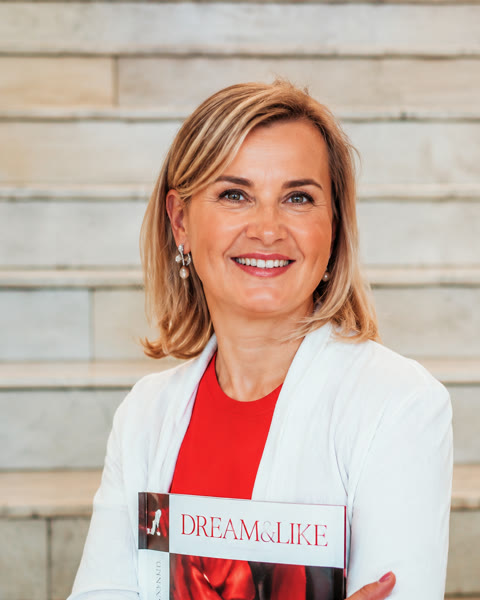
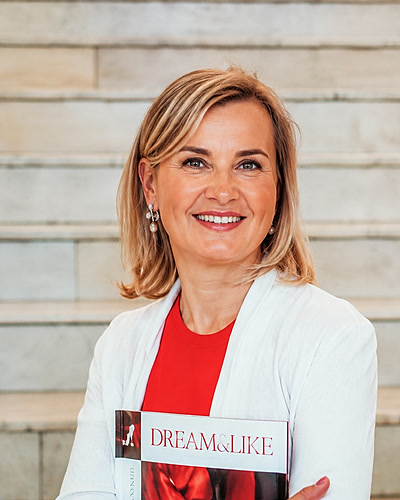
Чёткие компактные фото сбоку карточек кейсов вместо размытых баннеров

diff --git a/index.html b/index.html
@@ -177,13 +177,13 @@ nav{position:fixed;top:0;left:0;right:0;z-index:1000;padding:18px 32px;display:f
 .cases{padding:130px 0;background:var(--black-2);color:#fff}
 .cases-head{text-align:center;max-width:640px;margin:0 auto}
 .cases-head h2{font-size:clamp(28px,3.6vw,42px);color:#fff;margin-top:16px}
-.case-grid{display:grid;grid-template-columns:1fr 1fr;gap:24px;margin-top:56px}
-.case-card{background:var(--black-3);border:1px solid var(--border-w);border-radius:6px;overflow:hidden}
-.case-photo{width:100%;aspect-ratio:4/5;overflow:hidden;background:var(--black)}
+.case-grid{display:grid;grid-template-columns:1fr 1fr;gap:20px;margin-top:56px}
+.case-card{background:var(--black-3);border:1px solid var(--border-w);border-radius:6px;overflow:hidden;display:flex;align-items:stretch}
+.case-photo{width:132px;flex-shrink:0;aspect-ratio:4/5;overflow:hidden;background:var(--black)}
 .case-photo img{width:100%;height:100%;object-fit:cover;display:block}
-.case-body{padding:24px 26px 28px}
-.case-name{font-family:'Playfair Display',serif;font-size:19px;font-weight:800;color:#fff}
-.case-role{font-size:13px;color:var(--muted-w);margin-top:3px;margin-bottom:16px}
+.case-body{padding:22px 22px 24px;min-width:0;flex:1}
+.case-name{font-family:'Playfair Display',serif;font-size:17px;font-weight:800;color:#fff}
+.case-role{font-size:12px;color:var(--muted-w);margin-top:2px;margin-bottom:12px}
 .case-headline{font-size:14.5px;color:var(--gold-l);font-style:italic;margin-bottom:14px;line-height:1.4}
 .case-list{list-style:none}
 .case-list li{font-size:13.5px;color:var(--muted-w);display:flex;gap:8px;margin-bottom:7px;line-height:1.4}
@@ -305,6 +305,8 @@ footer a:hover{color:var(--gold-l)}
   .who-grid{grid-template-columns:1fr 1fr}
   .results-list{grid-template-columns:1fr}
   .program-grid,.case-grid{grid-template-columns:1fr}
+  .case-card{flex-direction:column}
+  .case-photo{width:100%;aspect-ratio:16/10}
   .pricing-grid{grid-template-columns:1fr}
   .form-two{grid-template-columns:1fr}
 }
